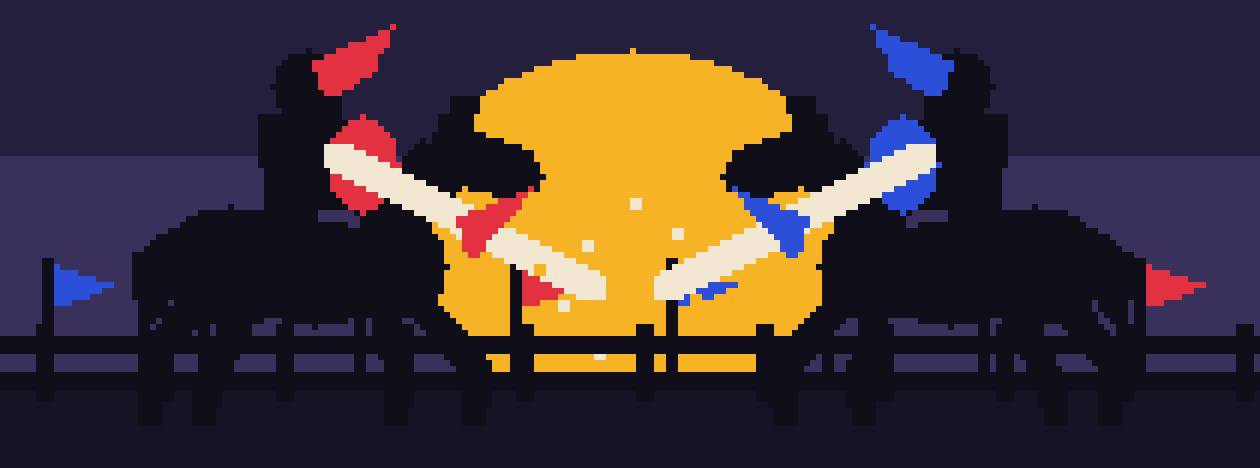
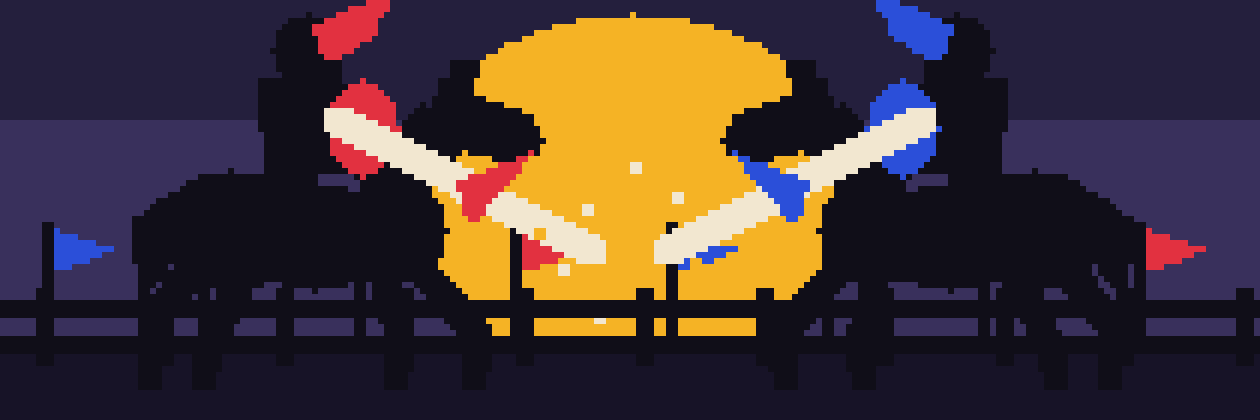
Release Joust: verification candidate
The README is organised rather than filled: three banners of one width and one
aspect, no table, and the design-system mark sheet removed from the page
someone opens to try the agent. Both banners are generated from the scenes.

The candidate SHA, public main, what the install URL serves, and the SHA named
in the verification handoff are one commit, and main does not move again while
the hosts review it.

Claude-Session: https://claude.ai/code/session_01NmgMT6ZUchBE999ZGDET59

diff --git a/docs/brand/build_marks.py b/docs/brand/build_marks.py
@@ -86,6 +86,7 @@ board("Card.dc.html", f"""
 
 # ------------------------------- shaded scenes, as images rather than vectors
 import png as _png  # noqa: E402
+from raster import Grid as _Grid  # noqa: E402
 from portrait import portrait as _portrait  # noqa: E402
 from scenes2 import favour as _favour, prize as _prize, rider as _rider  # noqa: E402
 from duel import scene as _duel_scene  # noqa: E402
@@ -123,9 +124,22 @@ _scenes = (("Portrait", "portrait", _portrait(), 7, 6, "#12101F", "A knight's he
             "Two knights colliding at the tilt"))
 for name, stem, grid, board_scale, readme_scale, bg, alt in _scenes:
     _png.write(f"{stem}.png", grid)
-    _png.write(f"joust-{stem}.png", grid, scale=readme_scale)
     open(f"{name}.dc.html", "w", encoding="utf-8").write(IMG_TPL.format(
         w=grid.w * board_scale, h=grid.h * board_scale, bg=bg, src=f"{stem}.png", alt=alt))
+
+# The README takes three banners of one width and one aspect. Three separate
+# images of three aspects, dropped in a table, read as thrown in.
+_by_stem = {stem: grid for _n, stem, grid, *_r in _scenes}
+_png.write("joust-duel.png", _by_stem["duel"].crop(0, 6, 210, 70), scale=6)
+
+_PANEL_W, _PANEL_H, _GUTTER = 68, 70, 4
+_strip = _Grid(_PANEL_W * 3 + _GUTTER * 2, _PANEL_H)
+_strip.rect(0, 0, _strip.w, _strip.h, "#12101F")
+for _i, (_stem, _cx, _cy) in enumerate((("portrait", 14, 0), ("prize", 18, 12),
+                                        ("favour", 28, 9))):
+    _strip.blit(_by_stem[_stem].crop(_cx, _cy, _PANEL_W, _PANEL_H),
+                _i * (_PANEL_W + _GUTTER), 0)
+_png.write("joust-scenes.png", _strip, scale=6)
 
 # ---------------------------------------------------------------- Knights
 KNIGHTS = [

diff --git a/docs/brand/raster.py b/docs/brand/raster.py
@@ -50,6 +50,21 @@ class Grid:
             for xx in range(x, x + w):
                 self.put(xx, yy, v)
 
+    def crop(self, x0, y0, w, h):
+        out = Grid(w, h)
+        for y in range(h):
+            for x in range(w):
+                sy, sx = y0 + y, x0 + x
+                if 0 <= sy < self.h and 0 <= sx < self.w:
+                    out.cells[y][x] = self.cells[sy][sx]
+        return out
+
+    def blit(self, other, x0, y0):
+        for y in range(other.h):
+            for x in range(other.w):
+                if other.cells[y][x] is not None:
+                    self.put(x0 + x, y0 + y, other.cells[y][x])
+
     def rects(self):
         out = []
         for y, row in enumerate(self.cells):

diff --git a/README.md b/README.md
@@ -3,20 +3,20 @@
 </p>
 
 <p align="center">
-  <strong>Give Joust a competition. It reads the rules, picks a way to win, builds a real
-  entry, tests it, repairs its own failures, publishes the result, and keeps improving it
-  until the deadline.</strong>
+  Give Joust a competition. It reads the rules, picks a way to win, builds a real entry,
+  tests it, repairs its own failures, publishes the result,<br>and keeps improving it until
+  the deadline.
 </p>
 
 <p align="center">
   <img src="docs/brand/joust-duel.png" alt="Two knights colliding at the tilt, lances shattering" width="100%">
 </p>
 
-Joust is an agent that runs on Plow, and it is evidence-first: nothing reports
-success on a claim, only on a result it observed. A build passes because a
-recorded run exited zero. A branch is pushed because the remote SHA was read
-back and matched. Whatever Joust cannot observe stays unverified rather than
-becoming a pass.
+Joust runs on Plow, and it is evidence-first: nothing reports success on a
+claim, only on a result it observed. A build passes because a recorded run
+exited zero. A branch is pushed because the remote SHA was read back and
+matched. Whatever Joust cannot observe stays unverified rather than becoming a
+pass.
 
 ## Run it
 
@@ -26,7 +26,7 @@ You need Git, Docker and Docker Compose v2.
 git clone https://github.com/baskpascal/joust.git && cd joust
 ```
 
-Mint a Plow credential with the official helper — it writes `./plow-credentials`,
+Mint a Plow credential with the official helper. It writes `./plow-credentials`,
 which holds an API token, so keep it local and out of Git:
 
 ```bash
@@ -41,14 +41,16 @@ Pick a stable Agent Index id, set `AGENT_ID` to it, and start:
 AGENT_ID=your-agent-id docker compose up --build -d
 ```
 
-Then talk to it in Plow Chat. Send a competition URL and `Joust it.`
+Then talk to it in Plow Chat: send a competition URL and `Joust it.`
 
 ```bash
-python -m hackathon_competitor.cli doctor   # every runtime surface, one report
+python -m hackathon_competitor.cli doctor
 ```
 
 <details>
 <summary>Windows PowerShell, a standalone image build, and credential paths</summary>
+
+<br>
 
 ```powershell
 $env:AGENT_ID = "your-agent-id"
@@ -82,33 +84,9 @@ An action waiting on somebody else rests in `AWAITING_EXTERNAL`, which is
 neither success nor failure. A source that could not be read is recorded as
 unreadable, never as unchanged.
 
-<table>
-<tr>
-<td width="50%" valign="top">
-  <img src="docs/brand/joust-prize.png" alt="The victor, unhelmed, takes the prize from the royal stand" width="100%">
-  <p align="center"><em>Winning is an event, not the end of the mission.</em></p>
-</td>
-<td width="50%" valign="top">
-  <img src="docs/brand/joust-favour.png" alt="A lady knots her favour onto a knight's lance" width="100%">
-  <p align="center"><em>Every claim carries something that vouches for it.</em></p>
-</td>
-</tr>
-</table>
-
-## The marks
-
 <p align="center">
-  <img src="docs/brand/joust-marks.png" alt="The Joust marks: helm, lance, shield, barrier, pennon, crossed lances, chaplet" width="100%">
+  <img src="docs/brand/joust-scenes.png" alt="The helm, the prize-giving, and a favour knotted onto a lance" width="100%">
 </p>
-
-Per pale crimson and azure, a lance in pale gold. Every mark is drawn on a
-16-pixel grid, and the scenes are shaded from five-step colour ramps with one
-light direction and ordered dithering. None of it is hand-exported:
-
-```bash
-python docs/brand/build_marks.py    # redraws every artboard and scene
-node docs/brand/render_marks.mjs    # captures the hero, card and mark sheet
-```
 
 ## Read more
 
@@ -117,7 +95,10 @@ node docs/brand/render_marks.mjs    # captures the hero, card and mark sheet
 [The build notes](docs/BUILD_NOTES.md) say why each piece came out the way it did.
 
 `python -m hackathon_competitor.cli bundle` writes a reproducible archive of the
-committed files and refuses to produce one that is missing the install files or
+committed files, and refuses to produce one that is missing the install files or
 the MIT licence, or that carries credentials, databases or bytecode.
+
+The art is generated, not hand-exported: `python docs/brand/build_marks.py`
+redraws every scene and `node docs/brand/render_marks.mjs` captures the banners.
 
 MIT licensed.

diff --git a/docs/BUILD_NOTES.md b/docs/BUILD_NOTES.md
@@ -1,5 +1,40 @@
 # Build notes
 
+## 2026-09-14 — Shading, and why the canvas preview kept dying
+
+Flat silhouettes were a crutch. They read acceptably at a glance precisely
+because they hide that nothing is modelled, and once that was said plainly the
+fix was a different technique, not a better silhouette: five-step colour ramps
+per material, one light direction, a per-pixel normal, ordered 2x2 dithering at
+the band boundaries, and an outline in deep violet rather than black. The
+portrait carries twenty-three tones where the flat scenes carried six.
+
+The scenes were also all the same picture — night sky, sun disc, stand on the
+right — and shading would not have fixed that. Each one moved instead. The
+portrait is a close crop, because detail needs pixels per object and a
+tournament field spread over two hundred pixels has none to spare. The prize is
+a low angle in torchlight, over the victor's bare head, looking up at the royal
+box. The favour is a macro at dawn: her hand, the shaft, silk knotting round it.
+
+Assembling all of it surfaced a real defect. The Prize artboard rendered alone
+but came up blank in the full canvas, with "the preview stopped answering the
+editor". It was weight: dithering alternates colour every pixel, so run-length
+encoding merges nothing and a 104x116 scene became 5,468 SVG rect nodes. Dense
+pixel art is a raster, not a vector. A small PNG writer now emits each scene at
+2.5 KB as one image node, and separately at README scale, because GitHub does
+not honour a pixelated rendering hint and the file has to carry the final size.
+
+Finding that needed the right instrument. Checking artboards by assembling them
+as plain HTML never exercises the canvas runtime, so the one artboard that could
+not be verified that way — the interactive parallax — was also the one carrying
+an unnoticed bug: each layer was one viewport wide and ran out the moment it was
+dragged. Opening the assembled canvas in a browser showed both at once.
+
+Candidate `c8aa38d3c81009e47495f1b154eb301ca1b9d1ea` carries the filled README
+and was validated from the install URL: HEAD matching, doctor healthy, full
+suite green, all five images present. Seven superseded proposals are denied; one
+is live.
+
 ## 2026-09-14 — Rasterised silhouettes, and the entry repository goes private
 
 `baskpascal/joust-entry` is now private, observed as `private=true`. It was

diff --git a/docs/COMPETITION_CLOSED_LOOP.md b/docs/COMPETITION_CLOSED_LOOP.md
@@ -150,14 +150,14 @@
 ## Install-path freeze
 
 ```text
-VERIFICATION_CANDIDATE = 05c4b4aa1a02ced03af377a75b07443da6602d8a
+VERIFICATION_CANDIDATE = c8aa38d3c81009e47495f1b154eb301ca1b9d1ea
 ```
 
 Public `main` is frozen at that commit while verification is pending. Work
 continues on branches; `main` moves again only for a critical reason, so the
 hosts review exactly what Joust claims is ready. Every superseded proposal was
 denied rather than removed, and exactly one verification request is live:
-`5f4d8592`, naming this candidate.
+`c55d938f`, naming this candidate.
 
 ## Milestone: enter the race
 
@@ -177,7 +177,7 @@ repository, the install path is part of the gate.
 - [x] One candidate SHA holds across every surface. Verification installs and
   runs this repository once, so the candidate, public `main`, what the install
   URL serves, and the SHA named in the handoff must all be the same commit.
-  The current candidate is `05c4b4aa1a02ced03af377a75b07443da6602d8a`,
+  The current candidate is `c8aa38d3c81009e47495f1b154eb301ca1b9d1ea`,
   reproduced from a clean clone before publication and re-observed afterwards
   from an independent clone of the install URL: HEAD matched, doctor healthy,
   full suite green, branding `Joust`, 139 files.
